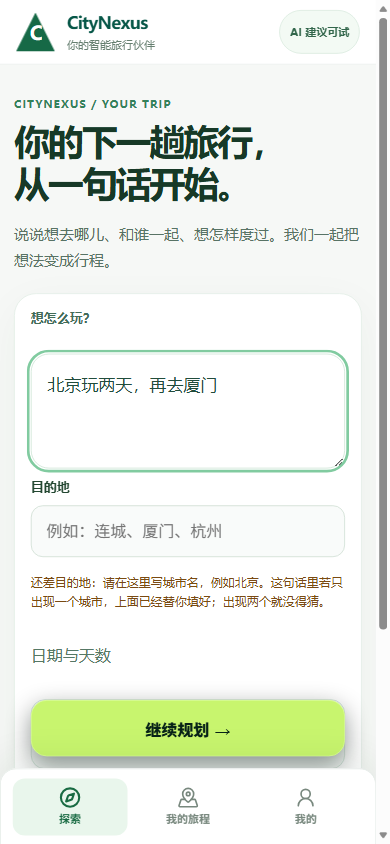
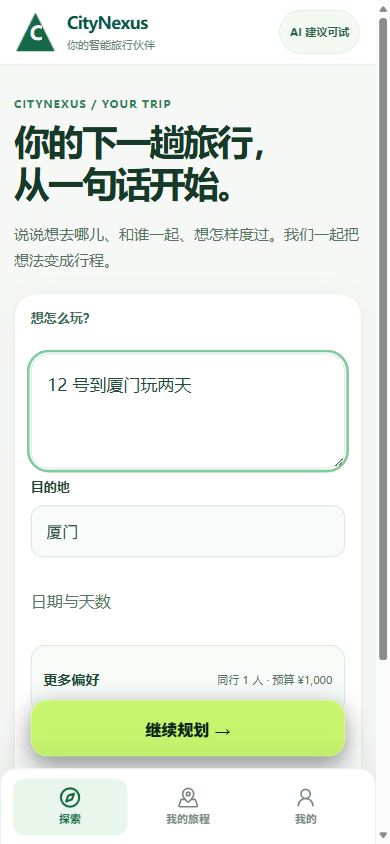
Require a lead-in before a Chinese spelling counts as the traveller's city
Measured on the screen: 「去大厦门滩」 filled the destination box with 厦门, which is a place nobody named.
A missed read costs one keystroke in a box the traveller can see; a false read writes the city that decides
whose places get fetched.

diff --git a/frontend/src/features/setup/JourneyTrialSetup.tsx b/frontend/src/features/setup/JourneyTrialSetup.tsx
@@ -183,12 +183,30 @@ const SUPPORTED_CITIES = {
  * that apart at `GET /destinations/capability`, where three of the eleven Chinese spellings get no
  * identity at all.  This only ever fills a box the traveller can still see and change.
  */
+/**
+ * The words that put a Chinese place name in focus.  「大厦门」 is not 厦门, so a spelling counts only at the
+ * start of the sentence, after punctuation, or after one of these; inside another CJK run it does not count.
+ * The asymmetry is deliberate: a missed read costs the traveller one keystroke in a box they can see, while a
+ * false read writes a city nobody named into the field that decides whose places get fetched.
+ */
+const CITY_LEAD_INS = "去到在从来往和与或请带经";
+
+function namesChineseCity(haystack: string, name: string): boolean {
+  let at = haystack.indexOf(name);
+  while (at !== -1) {
+    const before = at === 0 ? "" : haystack.charAt(at - 1);
+    if (!/[\u4e00-\u9fff]/.test(before) || CITY_LEAD_INS.includes(before)) return true;
+    at = haystack.indexOf(name, at + name.length);
+  }
+  return false;
+}
+
 export function cityNamedIn(text: string): string | null {
   const haystack = text.toLowerCase();
   const hits = Object.keys(CITY_FACTS).filter((name) => (
     /^[\x00-\x7F]+$/.test(name)
       ? new RegExp(`(^|[^a-z])${name.replace(/[.*+?^${}()|[\]\\]/g, "\\$&")}([^a-z]|$)`).test(haystack)
-      : haystack.includes(name)));
+      : namesChineseCity(haystack, name)));
   return hits.length === 1 ? hits[0] : null;
 }
 

diff --git a/trial/results/20261022_V3_CHROME_USE_HUMAN_WALKTHROUGH.md b/trial/results/20261022_V3_CHROME_USE_HUMAN_WALKTHROUGH.md
@@ -1860,3 +1860,50 @@ over_cap_walks=0, walking_cap_m=1000, frozen=true, unanswered=[], answered_at=20
 **还没到"完成"的部分**：PR #43 仍是 Draft、Actions 运行 0 次，所以这批不能称正式交付；USER_VERIFIED 仍 PENDING，
 要主人自己在真手机上按那两下；抽屉那两行的屏上证词要等 walk-114 的读数；上限只在"本次冻结"里生效，
 生效后的方案再被重新安排时是否重读那句话，是另一格，尚未量。
+
+## 卅六、首屏那道墙：写了「北京」却还要再写一遍目的地（walk 之外的单独探针，代 `664e3b4c761663a37ca4072e53746d1be4ce7e72`）
+
+主人报的那句「写了北京仍要被问目的地」这次量到底了。
+
+**看见什么（改之前）**：第一屏的话里写「北京玩两天」，下面「目的地」仍是空的，提示写着
+「还差目的地：我没有从这句话里替你定下城市，请先在「目的地」写城市名。」
+**这句话不成立**：这一屏从话里只认两样东西——人数（`frontend/src/trial/RevolutionFirstLook.tsx:382`）与人均预算（`:391`），
+没有任何一行代码在这一屏把话里的城市搬进那格；而真正挡住去路的是 `:637-641`：那个框为空就 `setError` 后 `return`。
+也就是说屏上声明了一次从未发生的尝试，却把实际的门槛藏在别处。
+
+**改了什么**：让这一屏用它自己那张拼写表去认城市（`frontend/src/features/setup/JourneyTrialSetup.tsx:186`
+`cityNamedIn`，读的就是 `applyCity` 已经在用的 `CITY_FACTS`，不另造第二份词表），
+填进去的那一格由这一屏记着（`RevolutionFirstLook.tsx:411` `cityEdited`、`:412` `autoFilledCity`、调用点 `:421`）：
+旅客一旦自己动过这个框就再也不碰它；话从"一个城市"变成"两个城市"时，把我们填的那格退回空着，
+不留一个话里已经说不成立的值。提示改成说真话的那句（`:1115`）。
+认出一个拼写**不等于**服务端能供这座城市——ORD-0346 早在 `GET /destinations/capability` 上量过三枚中文拼写连身份都没有，
+这里只是把框填上，人还能看见、还能改。
+
+**再按（七臂，都是冷起页面真点真读，`trial/results/20261022_v3_human_chrome/city_prefill-1.txt`）**：
+- 甲臂 只写话不碰框：`city_value="北京" hint_visible=false`（`:1`）——墙没了；
+- 乙臂 话里两个城市：`city_value="" hint_visible=true`（`:2`）——不猜；
+- 丙臂 先手写「杭州」再写带「北京」的话：`city_value="杭州"`（`:3`）——不覆盖人；
+- 丁臂 甲臂之后真按第一下：按钮「继续规划 →」中心命中它自己（`topmost=rev-firstlook-start`，`:4`），
+  按完 `first_screen_forms=0`、无报错（`:5`），屏头读到 `… 北京 把想去变成出发。… 等待第一个目标`（`:6`）——
+  行程带着「北京」建起来了，这就是主人那一下本来该发生的事；
+- 戊臂 先写「北京玩两天」（`:8` 读到北京已填），再把话补成「北京玩两天，再去厦门」：`city_value=""`（`:9`）——填过的格子退回去；
+- 己臂 这一臂是量出来的反例：先按子串匹配时「去大厦门滩玩两天」会把格子填成「厦门」
+  （上一代同一臂的读数已入库：`city_prefill-leadin-before-1.txt:1` 记 `city_value="厦门" hint_visible=false`），
+  那不是旅客说过的城市；加上引导字之后同一句话读到 `city_value="" hint_visible=true`（`:10`）——不认；
+- 庚臂 引导字放行的一侧：「12 号到厦门玩两天」读到 `city_value="厦门"`（`:11`）——认。
+截图 `city_prefill-1-shot.png`（48963 字节，七臂走完的那一屏）。量具 `trial/human_walk/city_prefill_probe_r1.mjs`。
+中文那一路的规矩写在 `JourneyTrialSetup.tsx:192`（引导字表）与 `:194`（`namesChineseCity`：句首、标点之后、或引导字之后才算），
+入口仍是 `:204` 的 `cityNamedIn`；不对称的理由写在那段注释里：漏认只是让旅客多敲一次他看得见的格子，
+错认是把一个没人说过的城市写进决定"取哪座城的地点"的那一格。
+
+**自测**：`npm run typecheck`（`tsc -p tsconfig.check.json --noEmit`）退出码 0；
+凭据门 `trial/play_launcher/_staged_secret_gate_r2.py` 提交前 `selftest cases=6 misses=0`、
+`added_lines_scanned=151 value_line_hits=0 key_anywhere_hits=0 VERDICT=PASS`。
+
+**这代没做到的**：五臂都在 390×844 一档形状上量的，P0-1 那六档形状没有重走（改的是行为不是布局，但这是推断不是读数）；
+V8 向导自己的城市框没碰；这一屏填的仍是"目的地"这一格，服务端建行程时该字段仍是必填（`:637-641` 的门槛没拆，只是不再让旅客重复写）；
+拉丁拼写靠词边界匹配（`(^|[^a-z])name([^a-z]|$)`），中文靠引导字，所以「想飞北京」这种不以句首、标点或引导字开头的写法会**漏认**——
+漏认的代价是旅客自己写一次那一格（就是改之前的样子），认错的代价已经由己臂那条路堵住；引导字表只有十一个字，
+它是不是够，要更多真句子才能判，这次没有那份分母。
+
+**仍不是正式交付**：PR #43 仍是 Draft、Actions 一次也没跑过；USER_VERIFIED 仍 PENDING，要主人自己在真手机上按这一下。
